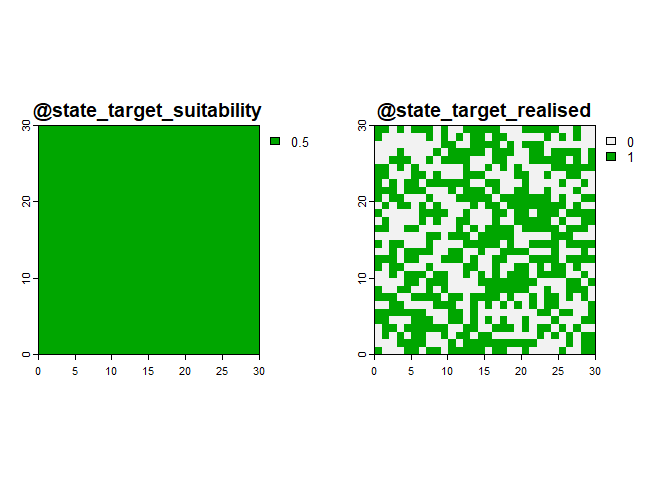
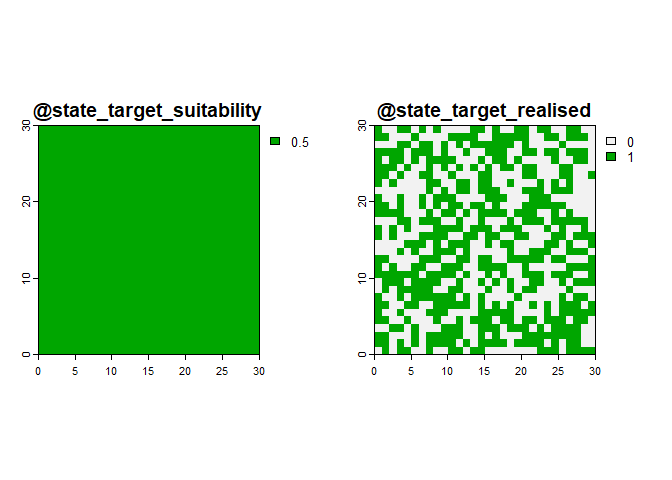
Update readme

Changed region(s): [[0.5312, 0.25, 0.9062, 0.75]]

diff --git a/README.md b/README.md
@@ -144,7 +144,7 @@ background <- terra::rast(matrix(0,30,30))
 
 # Create the simulation object
 sim_obj <- SimulationObject(background = background)
-sim_obj <- sim_state_env_uniform(sim_obj,value = 20)
+sim_obj <- sim_state_env(sim_obj,fun = "uniform",value = 20)
 sim_obj
 ```
 
@@ -185,6 +185,9 @@ sim_obj
     ## 
     ## Slot "report":
     ## NULL
+    ## 
+    ## Slot "hash":
+    ## [1] "02770d7a1351d2b3c355c14ad2ebe33a"
 
 ### Simulating the environmental state
 
@@ -294,20 +297,20 @@ target present).
 
 ``` r
 # Simulate the sampling effort
-sim_obj <- sim_effort_uniform(sim_obj, n_samplers=2, n_visits = 1, n_sample_units = 2)
+sim_obj <- sim_effort(sim_obj,fun = "uniform", n_samplers=2, n_visits = 1, n_sample_units = 2)
 sim_obj@effort
 ```
 
     ## Simple feature collection with 4 features and 7 fields
     ## Geometry type: POINT
     ## Dimension:     XY
-    ## Bounding box:  xmin: 21.5 ymin: 21.5 xmax: 27.5 ymax: 26.5
+    ## Bounding box:  xmin: 9.5 ymin: 24.5 xmax: 18.5 ymax: 26.5
     ## CRS:           NA
     ##   sampler visit unit cell_id          geometry env suit_target_1 real_target_1
-    ## 1       1     1    1     268 POINT (27.5 21.5)  20           0.5             1
-    ## 2       1     1    2     268 POINT (27.5 21.5)  20           0.5             1
-    ## 3       2     1    1     112 POINT (21.5 26.5)  20           0.5             1
-    ## 4       2     1    2     112 POINT (21.5 26.5)  20           0.5             1
+    ## 1       1     1    1     160  POINT (9.5 24.5)  20           0.5             1
+    ## 2       1     1    2     160  POINT (9.5 24.5)  20           0.5             1
+    ## 3       2     1    1     109 POINT (18.5 26.5)  20           0.5             0
+    ## 4       2     1    2     109 POINT (18.5 26.5)  20           0.5             0
 
 All functions for simulating effort start with `sim_effort_`
 
@@ -377,7 +380,7 @@ suit_fun <- function(sim_obj){
   target_suitability #return just the suitability layer
 }
 
-sim_obj <- sim_state_target_suitability_fun(sim_obj, fun = suit_fun)
+sim_obj <- sim_state_target_suitability(sim_obj, fun = suit_fun)
 ```
 
 This function must take the SimulationObject as its first argument. This
@@ -410,22 +413,22 @@ background <- terra::rast(matrix(0,30,30))
 sim_obj <- SimulationObject(background = background)
 
 # Simulate the environment state
-sim_obj <- sim_state_env_gradient(sim_obj)
+sim_obj <- sim_state_env(sim_obj,fun="gradient")
 
 # Simulate the target state
-sim_obj <- sim_state_target_suitability_uniform(sim_obj, value = 0.5)
+sim_obj <- sim_state_target_suitability(sim_obj,fun = "uniform", value = 0.5)
 
 #realise the state
-sim_obj <- sim_state_target_realise_binomial(sim_obj)
+sim_obj <- sim_state_target_realise(sim_obj,fun = "binomial")
 
 # Simulate the sampling effort
-sim_obj <- sim_effort_uniform(sim_obj, n_visits = 100, replace = FALSE)
+sim_obj <- sim_effort(sim_obj,fun = "uniform", n_visits = 100, replace = FALSE)
 
 # Simulate the detection
-sim_obj <- sim_detect_equal(sim_obj, prob = 0.5)
+sim_obj <- sim_detect(sim_obj,fun = "equal", prob = 0.5)
 
 # Simulate the reporting
-sim_obj <- sim_report_equal(sim_obj, prob = 0.8, platform = "iRecord")
+sim_obj <- sim_report(sim_obj,fun = "equal", prob = 0.8, platform = "iRecord")
 
 plot(sim_obj@state_target_realised) # State of the target
 plot(sim_obj@effort$geometry, add = TRUE,pch=16) # Effort
